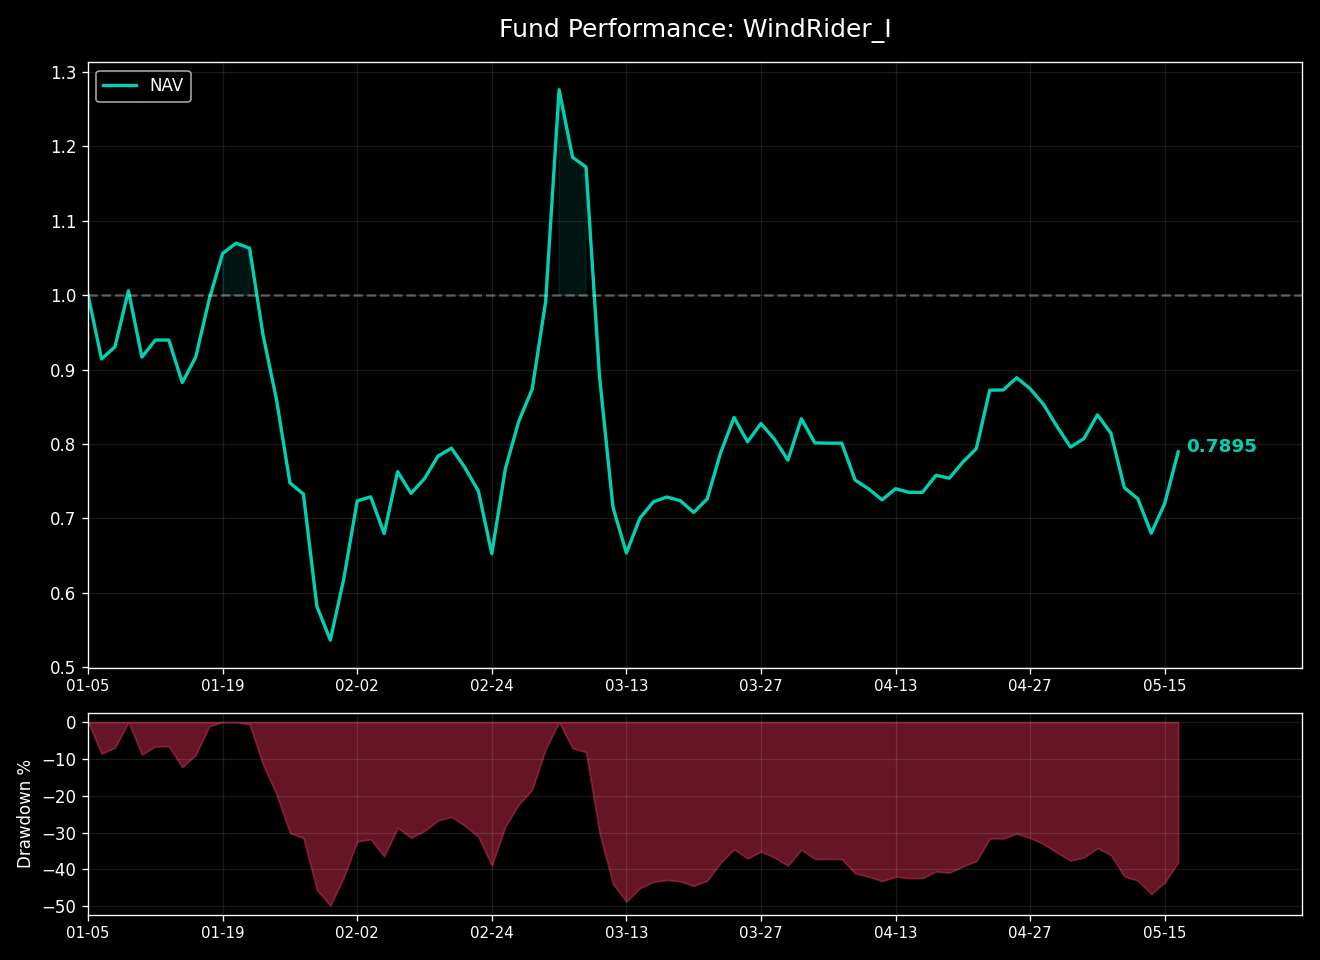
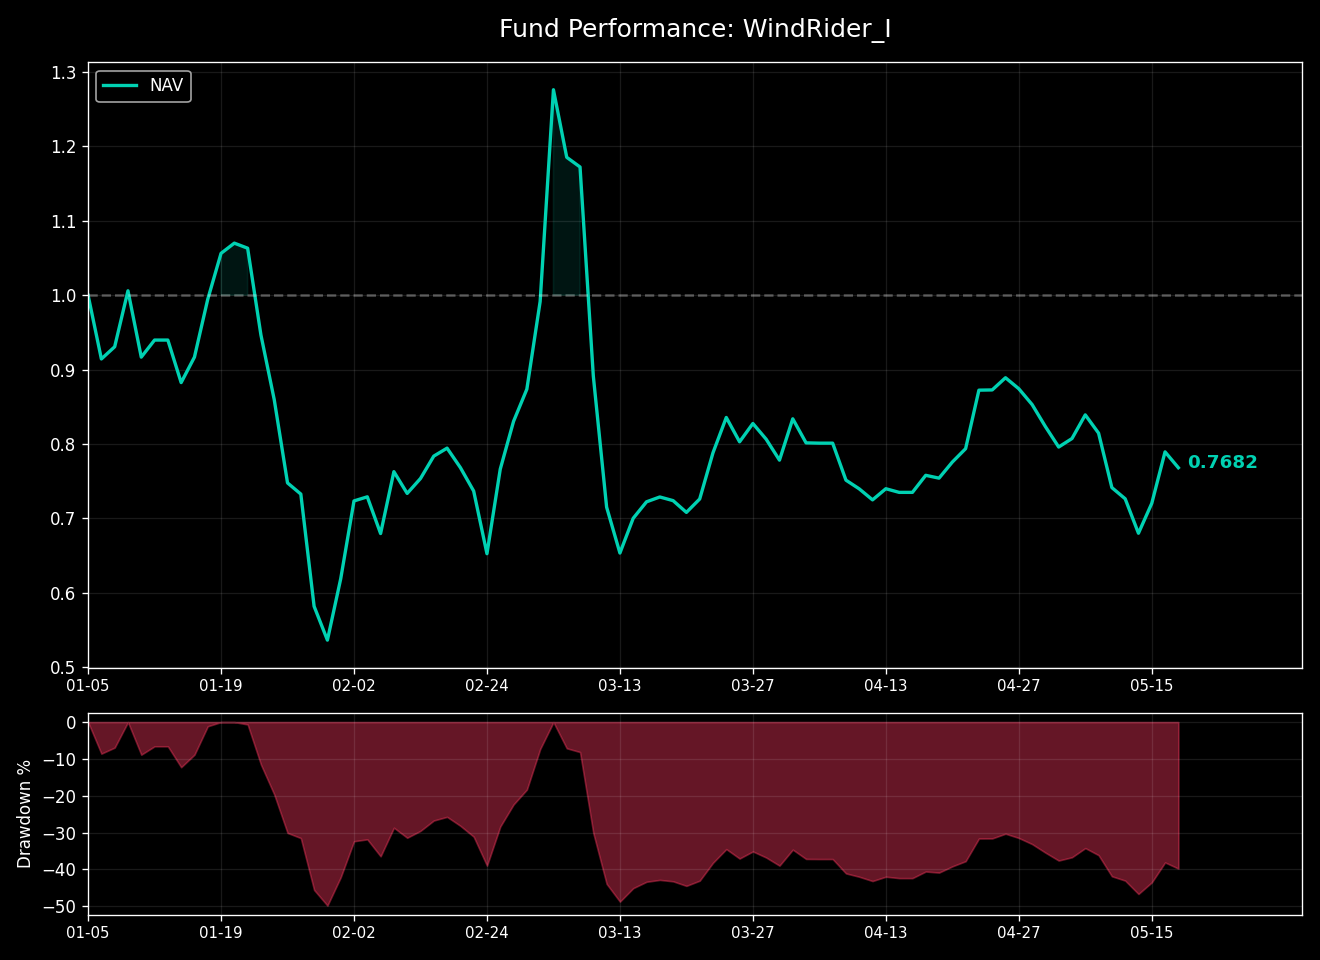
Updated Hugo site content

diff --git a/public/investment/windrider-1/index.html b/public/investment/windrider-1/index.html
@@ -66,8 +66,8 @@
   <meta property="og:locale" content="zh-cn">
   <meta property="og:type" content="article">
     <meta property="article:section" content="investment">
-    <meta property="article:published_time" content="2026-03-19T21:10:15+08:00">
-    <meta property="article:modified_time" content="2026-03-19T21:10:15+08:00">
+    <meta property="article:published_time" content="2026-05-19T21:34:02+08:00">
+    <meta property="article:modified_time" content="2026-05-19T21:34:02+08:00">
 <meta name="twitter:card" content="summary">
 <meta name="twitter:title" content="风舵1号 (WindRider I)  /// 指数">
 <meta name="twitter:description" content="商品期货分形摆动策略实盘">
@@ -103,11 +103,11 @@
   "keywords": [
     
   ],
-  "articleBody": " 风舵1号 (WindRider I) /// 指数 商品期货分形摆动策略实盘\n净值简报 (截至: 2026-03-19)\n指数代码： WDR1.CTA 起步日期： 2026-01-05 最新净值： 0.7240 今日涨跌： -0.67% ===========================\n核心指标 累计涨跌： -27.60% 年化收益： -80.11% 最大回撤： -49.85% 卡玛比率： -1.61 策略状态： 已运行 74 天 净值曲线 声明：本页面数据为实盘记录，持仓数据每日收盘后更新。\n数据仅供技术交流，不构成投资建议。\n",
+  "articleBody": " 风舵1号 (WindRider I) /// 指数 商品期货分形摆动策略实盘\n净值简报 (截至: 2026-05-19)\n指数代码： WDR1.CTA 起步日期： 2026-01-05 最新净值： 0.7895 今日涨跌： +9.61% ===========================\n核心指标 累计涨跌： -21.05% 年化收益： -47.47% 最大回撤： -49.85% 卡玛比率： -0.95 策略状态： 已运行 135 天 净值曲线 声明：本页面数据为实盘记录，持仓数据每日收盘后更新。\n数据仅供技术交流，不构成投资建议。\n",
   "wordCount" : "34",
   "inLanguage": "zh-cn",
-  "datePublished": "2026-03-19T21:10:15+08:00",
-  "dateModified": "2026-03-19T21:10:15+08:00",
+  "datePublished": "2026-05-19T21:34:02+08:00",
+  "dateModified": "2026-05-19T21:34:02+08:00",
   "mainEntityOfPage": {
     "@type": "WebPage",
     "@id": "https://hankou.com/investment/windrider-1/"
@@ -196,7 +196,7 @@
     <div class="post-description">
       商品期货分形摆动策略实盘
     </div>
-    <div class="post-meta"><span title='2026-03-19 21:10:15 +0800 CST'>March 19, 2026</span>
+    <div class="post-meta"><span title='2026-05-19 21:34:02 +0800 CST'>May 19, 2026</span>
 
 </div>
   </header> 
@@ -208,7 +208,7 @@
 </style>
 <h3 id="风舵1号-windrider-i--指数">风舵1号 (WindRider I)   <span style="color: #E63946; font-weight: bold;">/</span><span style="color: #F1A73E; font-weight: bold;">/</span><span style="color: #000091; font-weight: bold;">/</span>   指数<a hidden class="anchor" aria-hidden="true" href="#风舵1号-windrider-i--指数">#</a></h3>
 <p>商品期货分形摆动策略实盘<br>
-净值简报 <small>(截至: 2026-03-19)</small></p>
+净值简报 <small>(截至: 2026-05-19)</small></p>
 <table>
   <thead>
       <tr>
@@ -227,11 +227,11 @@
       </tr>
       <tr>
           <td style="text-align: left"><strong>最新净值：</strong></td>
-          <td style="text-align: left">0.7240</td>
+          <td style="text-align: left">0.7895</td>
       </tr>
       <tr>
           <td style="text-align: left"><strong>今日涨跌：</strong></td>
-          <td style="text-align: left">-0.67%</td>
+          <td style="text-align: left">+9.61%</td>
       </tr>
   </tbody>
 </table>
@@ -246,11 +246,11 @@
   <tbody>
       <tr>
           <td style="text-align: left"><strong>累计涨跌：</strong></td>
-          <td style="text-align: left">-27.60%</td>
+          <td style="text-align: left">-21.05%</td>
       </tr>
       <tr>
           <td style="text-align: left"><strong>年化收益：</strong></td>
-          <td style="text-align: left">-80.11%</td>
+          <td style="text-align: left">-47.47%</td>
       </tr>
       <tr>
           <td style="text-align: left"><strong>最大回撤：</strong></td>
@@ -258,11 +258,11 @@
       </tr>
       <tr>
           <td style="text-align: left"><strong>卡玛比率：</strong></td>
-          <td style="text-align: left">-1.61</td>
+          <td style="text-align: left">-0.95</td>
       </tr>
       <tr>
           <td style="text-align: left"><strong>策略状态：</strong></td>
-          <td style="text-align: left">已运行 74 天</td>
+          <td style="text-align: left">已运行 135 天</td>
       </tr>
   </tbody>
 </table>

diff --git a/public/investment/index.html b/public/investment/index.html
@@ -157,20 +157,8 @@
   <div class="entry-content">
     <p>商品期货分形摆动策略，实盘最新净值与核心风险指标。</p>
   </div>
-  <footer class="entry-footer"><span title='2026-03-19 21:10:15 +0800 CST'>March 19, 2026</span></footer>
+  <footer class="entry-footer"><span title='2026-05-19 21:34:02 +0800 CST'>May 19, 2026</span></footer>
   <a class="entry-link" aria-label="post link to 风舵1号 (WindRider I)  /// 指数" href="https://hankou.com/investment/windrider-1/"></a>
-</article>
-
-<article class="post-entry"> 
-  <header class="entry-header">
-    <h2 class="entry-hint-parent">如山-股票组合持仓 /// Position
-    </h2>
-  </header>
-  <div class="entry-content">
-    <p>主动管理型股票组合。对标沪深300指数，采用基本面选股策略。</p>
-  </div>
-  <footer class="entry-footer"><span title='2026-03-19 15:10:04 +0800 CST'>March 19, 2026</span></footer>
-  <a class="entry-link" aria-label="post link to 如山-股票组合持仓 /// Position" href="https://hankou.com/investment/position/"></a>
 </article>
     </main>
     

diff --git a/content/investment/windrider-1.md b/content/investment/windrider-1.md
@@ -1,8 +1,8 @@
 +++
 title = "风舵1号 (WindRider I)  /// 指数"
 summary = "商品期货分形摆动策略，实盘最新净值与核心风险指标。"
-date = 2026-05-19T21:34:02+08:00
-lastmod = 2026-05-19T21:34:02+08:00
+date = 2026-05-20T15:15:04+08:00
+lastmod = 2026-05-20T15:15:04+08:00
 draft = false
 description = "商品期货分形摆动策略实盘"
 +++
@@ -15,24 +15,24 @@ description = "商品期货分形摆动策略实盘"
 
 ### 风舵1号 (WindRider I) &nbsp;&nbsp;<span style="color: #E63946; font-weight: bold;">/</span><span style="color: #F1A73E; font-weight: bold;">/</span><span style="color: #000091; font-weight: bold;">/</span>&nbsp;&nbsp; 指数
 商品期货分形摆动策略实盘<br>
-净值简报 <small>(截至: 2026-05-19)</small>
+净值简报 <small>(截至: 2026-05-20)</small>
 
 |  |  |
 | :--- | :--- |
 | **指数代码：** | WDR1.CTA |
 | **起步日期：** | 2026-01-05 |
-| **最新净值：** | 0.7895 |
-| **今日涨跌：** | +9.61% |
+| **最新净值：** | 0.7682 |
+| **今日涨跌：** | -2.70% |
 
 ===========================
 
 | 核心指标 | |
 | :--- | :--- |
-| **累计涨跌：** | -21.05% |
-| **年化收益：** | -47.47% |
+| **累计涨跌：** | -23.18% |
+| **年化收益：** | -50.98% |
 | **最大回撤：** | -49.85% |
-| **卡玛比率：** | -0.95 |
-| **策略状态：** | 已运行 135 天 |
+| **卡玛比率：** | -1.02 |
+| **策略状态：** | 已运行 136 天 |
 
 ### 净值曲线
 ![风舵1号净值曲线](/images/investment/windrider_nav.png)